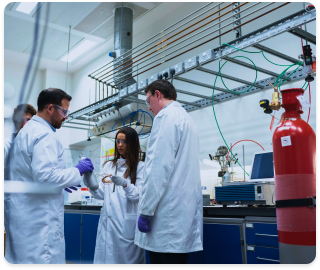
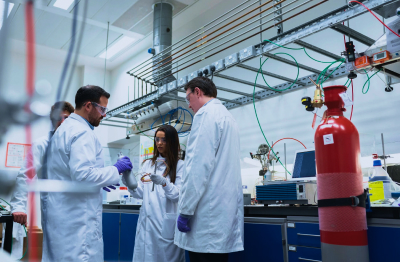
Adaptive macro final

diff --git a/source/index.html b/source/index.html
@@ -229,11 +229,14 @@
       </div>
     </section>
 
-    <section class="main-section">
-      <div class="main-section__heading-wrapper main-section__heading-wrapper--bcg-how-it-work">
+    <section class="main-section main-section--desktop-bcg">
+      <div class="main-section__heading-wrapper main-section__heading-wrapper--bcg-how-it-work main-section__heading-wrapper--desktop-none">
         <h2 class="main-section__heading">Как работает система</h2>
       </div>
       <div class="how-it-work">
+
+        <h2 class="main-section__heading how-it-work__heading">Как работает система</h2>
+
         <p class="how-it-work__more">
           Пока внимание конкурентов приковано исключительно к разработке эффективных антител,
           аналитики проекта ставят на разработку препаратов по борьбе с осложнениями от заболевания.
@@ -257,19 +260,25 @@
         <h2 class="main-section__heading">Рассчитайте прибыль от своих инвестиций</h2>
       </div>
       <div class="calculate">
-        <p class="calculate__about">
-          Чтобы рассчитать потенциальную прибыль от инвестирования в ценные бумаги фармацевтических компаний,
-          укажите начальную сумму инвестиций. Система просчитает возможный доход, учитывая статистические данные.
-        </p>
-        <div class="calculate__action">
-          <label class="calculae__call">Впишите сумму инвестирования
-            <input class="calculate__value" type="text" id="value" name="value" placeholder="200$"></input>
-          </label>
+        <div class="calculate__wrapper calculate__wrapper--about">
+          <p class="calculate__about">
+            Чтобы рассчитать потенциальную прибыль от инвестирования в ценные бумаги фармацевтических компаний,
+            укажите начальную сумму инвестиций. Система просчитает возможный доход, учитывая статистические данные.
+          </p>
+          <div class="calculate__action">
+            <label class="calculae__call">Впишите сумму инвестирования
+              <input class="calculate__value" type="text" id="value" name="value" placeholder="200$"></input>
+            </label>
+          </div>
+          <div class="calculate__progress"></div>
+          <div class="calculate__shares">Другие акции</div>
+          <div class="calculate__vaccine">Вакцины</div>
         </div>
-        <div class="calculate__progress"></div>
-        <div class="calculate__shares">Другие акции</div>
-        <div class="calculate__vaccine">Вакцины</div>
-        <img class="calculate__img" src="img/laboratory.jpg" width="312" height="262" alt="Лаборанты в лаборатории">
+
+        <div class="calculate__wrapper calculate__wrapper--img">
+          <img class="calculate__img" src="img/laboratory.jpg" width="320" height="262" alt="Лаборанты в лаборатории">
+        </div>
+
       </div>
     </section>
 

diff --git a/source/sass/blocks/main-section.scss b/source/sass/blocks/main-section.scss
@@ -3,6 +3,14 @@
 
   @media (min-width: $desktop-width) {
     grid-column: span 3;
+
+    &--desktop-bcg {
+      padding: 64px 120px 80px;
+      background: url("../../img/how-it-workBackground.jpg") no-repeat;
+      background-color: $how-it-workBackground;
+      background-size: cover;
+      border-radius: 20px;
+    }
   }
 }
 
@@ -66,20 +74,35 @@
 
   &--bcg-how-it-work {
     min-height: 48px;
-    background: linear-gradient(0deg, rgba(0, 0, 0, 0.15), rgba(0, 0, 0, 0.15)), url("../../img/how-it-work.jpg") no-repeat;
+    background: linear-gradient(0deg, rgba(0, 0, 0, 0.15), rgba(0, 0, 0, 0.15)),
+      url("../../img/how-it-work.jpg") no-repeat;
     background-size: cover;
   }
 
   &--bcg-calculate {
     min-height: 80px;
-    background: linear-gradient(0deg, rgba(0, 0, 0, 0.15), rgba(0, 0, 0, 0.15)), url("../../img/calculate.jpg") no-repeat;
+    background: linear-gradient(0deg, rgba(0, 0, 0, 0.15), rgba(0, 0, 0, 0.15)),
+      url("../../img/calculate.jpg") no-repeat;
     background-size: cover;
   }
 
   @media (min-width: $desktop-width) {
+    box-sizing: border-box;
     display: inline-flex;
     min-height: 64px;
     padding: 8px;
     background: none;
+
+    &--desktop-none {
+      display: none;
+    }
+  }
+}
+
+.main-section__heading {
+  @media (min-width: $desktop-width) {
+    font-weight: 800;
+    font-size: 40px;
+    line-height: 48px;
   }
 }

diff --git a/source/sass/blocks/calculate.scss b/source/sass/blocks/calculate.scss
@@ -1,5 +1,30 @@
 .calculate {
   margin-left: 15px;
+
+  @media (min-width: $desktop-width) {
+    display: grid;
+    grid-template-columns: repeat(3, 1fr);
+    column-gap: 32px;
+    margin-left: 0;
+  }
+}
+
+.calculate__wrapper {
+  &--about {
+    @media (min-width: $desktop-width) {
+      grid-column: span 2;
+    }
+  }
+
+  &--img {
+    display: flex;
+    justify-content: center;
+    width: 100%;
+
+    @media (min-width: $desktop-width) {
+      order: -1;
+    }
+  }
 }
 
 .calculate__about {
@@ -7,6 +32,12 @@
   padding-left: 16px;
   margin-bottom: 30px;
   border-left: 1px dashed $block-border;
+
+  @media (min-width: $desktop-width) {
+    border: none;
+    margin-left: 0;
+    padding-left: 0;
+  }
 }
 
 .calculae__call {
@@ -41,11 +72,13 @@
   min-height: 25px;
   padding-bottom: 8px;
   background: url("../../img/calculateProgress.png") no-repeat;
+  background-size: contain;
   border-bottom: 1px dashed $vaccine-border;
 }
 
 .calculate__img {
   width: 100%;
-  margin-top: 32px;
-  margin-bottom: 50px;
+  max-width: 400px;
+  object-fit: cover;
+  border-radius: 10px;
 }

diff --git a/source/sass/blocks/how-it-work.scss b/source/sass/blocks/how-it-work.scss
@@ -1,6 +1,21 @@
 .how-it-work {
   padding-left: 10px;
   border-left: 1px dashed $block-border;
+
+  @media (min-width: $desktop-width) {
+    padding: 24px 28px;
+    background-color: rgba(255, 255, 255, 0.8);
+    border-left: none;
+    border-radius: 20px;
+  }
+}
+
+.how-it-work__heading {
+  display: none;
+
+  @media (min-width: $desktop-width) {
+    display: inline;
+  }
 }
 
 .how-it-work__more {

diff --git a/source/sass/blocks/achievements.scss b/source/sass/blocks/achievements.scss
@@ -9,13 +9,11 @@
 }
 
 .achievements__img {
+  display: flex;
+  justify-content: center;
   margin-bottom: 32px;
   box-shadow: 0 2px 4px rgba(0, 0, 0, 0.15);
   border-radius: 5px;
-
-  & img {
-    width: 100%;
-  }
 
   &:last-child {
     margin-bottom: 0;

diff --git a/source/sass/global/variables.scss b/source/sass/global/variables.scss
@@ -10,6 +10,7 @@ $vaccine-border: #111111;
 $block-border: #00bbf9;
 $calculate-input-color: #a7a7a7;
 $calculate-input-border: #e8e8e8;
+$how-it-workBackground: #929193;
 
 $currencyPlus: #19c576;
 $currencyMinus: #c51919;

diff --git a/source/sass/blocks/currency.scss b/source/sass/blocks/currency.scss
@@ -70,6 +70,8 @@
   }
 }
 
-.currency__graph img {
-  width: 100%;
+.currency__graph {
+  display: flex;
+  align-items: center;
+  justify-content: center;
 }
